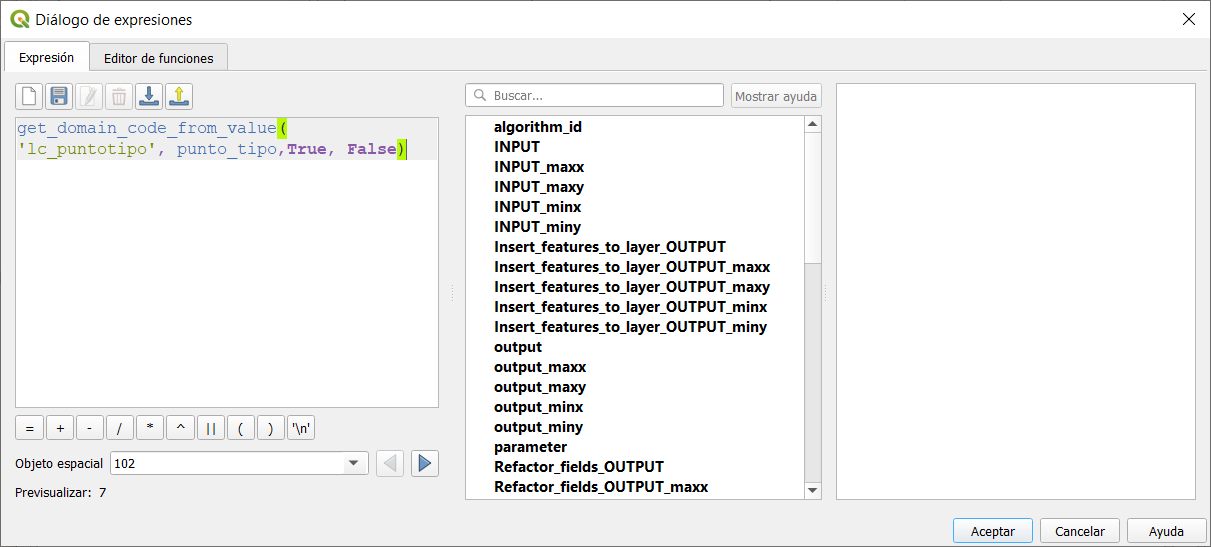
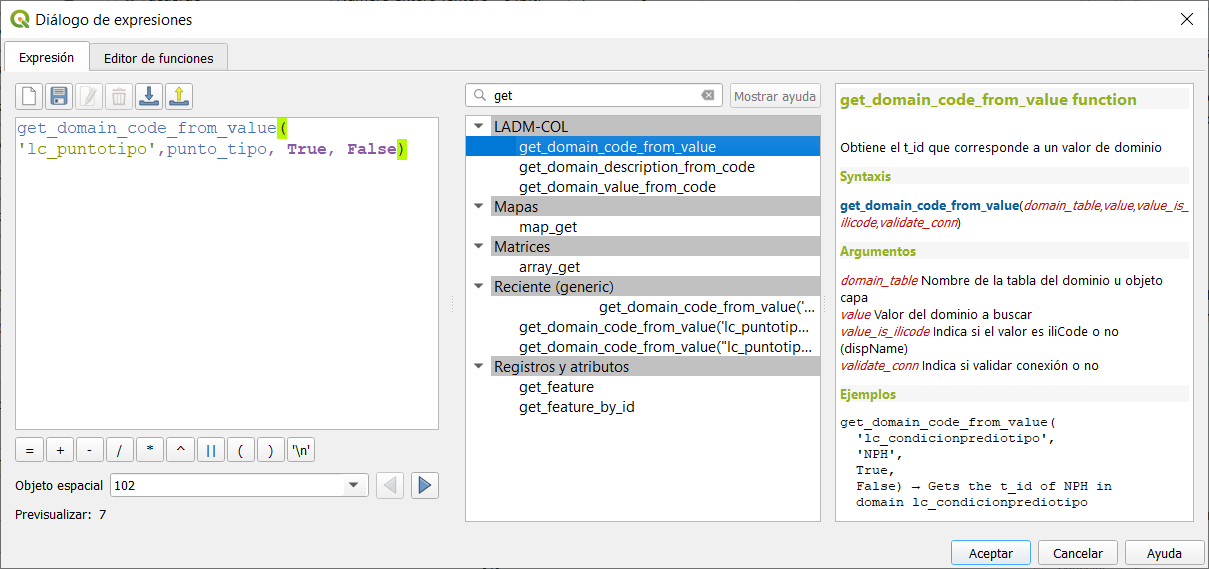
Actualización de imagenes y adicion paso 1-Cargue punto lindero

Changed region(s): [[0.0, 0.0, 0.9793, 0.9945], [0.0, 0.7459, 0.3672, 0.9324], [0.3366, 0.7148, 0.3672, 0.7459]]

diff --git a/source/tutorial/captura_y_estructuracion_de_datos.md b/source/tutorial/captura_y_estructuracion_de_datos.md
@@ -52,40 +52,46 @@ Se desplegará un diálogo con el listado de los valores del dominio seleccionad
 
 ### Puntos de lindero
 
-#### Paso 1: Creación de punto lindero
+#### Paso 1: Cargue de insumos Punto lindero
+
+Inicialmente, se arrastra la capa de insumo llamada **topo_puntos_lindero** al menú de capas de QGIS.
+
+<a class="" data-lightbox="Paso 1: Cargue de insumos Punto lindero" href="../_static/tutorial/captura_y_estructura_de_datos/cap4preinsumos9.gif" title="Paso 1: Cargue de insumos Punto lindero" data-title="Paso 1: Cargue de insumos Punto lindero"><img src="../_static/tutorial/captura_y_estructura_de_datos/cap4preinsumos9.gif" class="align-center" width="800px" alt="Paso 1: Cargue de insumos Punto lindero"/></a>
+
+#### Paso 2: Creación de punto lindero
 
 Entiéndase *'Puntos de lindero'* como aquellos puntos que definen los vértices de un lindero.
 
 Para crear puntos de lindero debes seguir la ruta **LADM-COL -> Captura y estructuración de datos -> Levantamiento Catastral -> Topografía y Representación -> Crear Punto**.
 
-<a class="" data-lightbox="Paso 1: Creación de punto lindero" href="../_static/tutorial/captura_y_estructura_de_datos/cap4preinsumos3.png" title="Paso 1: Creación de punto lindero" data-title="Paso 1: Creación de punto lindero"><img src="../_static/tutorial/captura_y_estructura_de_datos/cap4preinsumos3.png" class="align-center" width="800px" alt="Paso 1: Creación de punto lindero"/></a>
+<a class="" data-lightbox="Paso 2: Creación de punto lindero" href="../_static/tutorial/captura_y_estructura_de_datos/cap4preinsumos3.png" title="Paso 2: Creación de punto lindero" data-title="Paso 2: Creación de punto lindero"><img src="../_static/tutorial/captura_y_estructura_de_datos/cap4preinsumos3.png" class="align-center" width="800px" alt="Paso 2: Creación de punto lindero"/></a>
 
-#### Paso 2: Selección del tipo de punto
+#### Paso 3: Selección del tipo de punto
 
 La acción anterior desplegará un cuadro de diálogo con la opción para seleccionar la clase de punto que se desea importar. En este caso, selecciona **Punto Lindero** y luego haz clic en **Siguiente**.
 
-<a class="" data-lightbox="Paso 2: Selección del tipo de punto" href="../_static/tutorial/captura_y_estructura_de_datos/cap4preinsumos4.png" title="Paso 2: Selección del tipo de punto" data-title="Paso 2: Selección del tipo de punto"><img src="../_static/tutorial/captura_y_estructura_de_datos/cap4preinsumos4.png" class="align-center" width="600px" alt="Paso 2: Selección del tipo de punto"/></a>
+<a class="" data-lightbox="Paso 3: Selección del tipo de punto" href="../_static/tutorial/captura_y_estructura_de_datos/cap4preinsumos4.png" title="Paso 3: Selección del tipo de punto" data-title="Paso 3: Selección del tipo de punto"><img src="../_static/tutorial/captura_y_estructura_de_datos/cap4preinsumos4.png" class="align-center" width="600px" alt="Paso 3: Selección del tipo de punto"/></a>
 
-#### Paso 3: Selección de los datos punto lindero
+#### Paso 4: Selección de los datos punto lindero
 
 Ahora debes seleccionar el conjunto de datos a importar. La fuente de estos puede ser un archivo separado por comas (CSV) o una capa vectorial.
 
 Para este caso, elige el conjunto de datos que ya está cargado en la interfaz de QGIS, **topo_punto_lindero**, y procede a dar clic en el botón `Importar`.
 
-<a class="" data-lightbox="Paso 3: Selección de los datos punto lindero" href="../_static/tutorial/captura_y_estructura_de_datos/cap4preinsumos5.png" title="Paso 3: Selección de los datos punto lindero" data-title="Paso 3: Selección de los datos punto lindero"><img src="../_static/tutorial/captura_y_estructura_de_datos/cap4preinsumos5.png" class="align-center" width="600px" alt="Paso 3: Selección de los datos punto lindero"/></a>
+<a class="" data-lightbox="Paso 4: Selección de los datos punto lindero" href="../_static/tutorial/captura_y_estructura_de_datos/cap4preinsumos5.png" title="Paso 4: Selección de los datos punto lindero" data-title="Paso 4: Selección de los datos punto lindero"><img src="../_static/tutorial/captura_y_estructura_de_datos/cap4preinsumos5.png" class="align-center" width="600px" alt="Paso 4: Selección de los datos punto lindero"/></a>
 
-#### Paso 4: Diálogo del mapeo de campos para punto lindero
+#### Paso 5: Diálogo del mapeo de campos para punto lindero
 
 Tan pronto realices el paso anterior, se abre un cuadro de diálogo en el cual se encuentra el mapeo de la información levantada en campo comparada con la información que requiere el modelo.
 
- <a class="" data-lightbox="Paso 4: Diálogo del mapeo de campos para punto lindero" href="../_static/tutorial/captura_y_estructura_de_datos/cap4preinsumos6.png" title="Paso 4: Diálogo del mapeo de campos para punto lindero" data-title="Paso 4: Diálogo del mapeo de campos para punto lindero"><img src="../_static/tutorial/captura_y_estructura_de_datos/cap4preinsumos6.png" class="align-center" width="600px" alt="Paso 4: Diálogo del mapeo de campos para punto lindero"/></a>
+ <a class="" data-lightbox="Paso 5: Diálogo del mapeo de campos para punto lindero" href="../_static/tutorial/captura_y_estructura_de_datos/cap4preinsumos6.png" title="Paso 5: Diálogo del mapeo de campos para punto lindero" data-title="Paso 5: Diálogo del mapeo de campos para punto lindero"><img src="../_static/tutorial/captura_y_estructura_de_datos/cap4preinsumos6.png" class="align-center" width="600px" alt="Paso 5: Diálogo del mapeo de campos para punto lindero"/></a>
 
 <div class="warning">
 <p class="admonition-title">ADVERTENCIA</p>
 <p>Resulta de gran importancia esta sección ya que es la base de la importación de información restante.</p>
 </div>
 
-#### Paso 5: Definición del mapeo de campos para punto lindero
+#### Paso 6: Definición del mapeo de campos para punto lindero
 
 La capa **lc\_punto\_lindero** cuenta con cinco atributos obligatorios, estos son:
 
@@ -108,7 +114,7 @@ get_domain_code_from_value('Nombre de la tabla del dominio' (Texto),
                            Indica si validar conexión o no (Booleano),)
 ```
 
-<a class="" data-lightbox="Paso 5a: Definición del mapeo de campos para punto lindero" href="../_static/tutorial/captura_y_estructura_de_datos/cap4preinsumos12.png" title="Paso 5a: Definición del mapeo de campos para punto lindero" data-title="Paso 5a: Definición del mapeo de campos para punto lindero"><img src="../_static/tutorial/captura_y_estructura_de_datos/cap4preinsumos12.png" class="align-center" width="800px" alt="Paso 5a: Definición del mapeo de campos para punto lindero"/></a>
+<a class="" data-lightbox="Paso 6a: Definición del mapeo de campos para punto lindero" href="../_static/tutorial/captura_y_estructura_de_datos/cap4preinsumos12.png" title="Paso 6a: Definición del mapeo de campos para punto lindero" data-title="Paso 6a: Definición del mapeo de campos para punto lindero"><img src="../_static/tutorial/captura_y_estructura_de_datos/cap4preinsumos12.png" class="align-center" width="800px" alt="Paso 6a: Definición del mapeo de campos para punto lindero"/></a>
 
 Para el caso del mapeo de atributos obligatorios para Punto Lindero, debes asignar las siguientes expresiones:
 
@@ -128,7 +134,7 @@ Para el caso del mapeo de atributos obligatorios para Punto Lindero, debes asign
 
 Una vez que se diligencian cada uno de los atributos al interior del formulario, se obtiene el siguiente resultado:
 
-<a class="" data-lightbox="Paso 5b: Definición del mapeo de campos para punto lindero" href="../_static/tutorial/captura_y_estructura_de_datos/cap4preinsumos13.png" title="Paso 5b: Definición del mapeo de campos para punto lindero" data-title="Paso 5b: Definición del mapeo de campos para punto lindero"><img src="../_static/tutorial/captura_y_estructura_de_datos/cap4preinsumos13.png" class="align-center" width="800px" alt="Paso 5b: Definición del mapeo de campos para punto lindero"/></a>
+<a class="" data-lightbox="Paso 6b: Definición del mapeo de campos para punto lindero" href="../_static/tutorial/captura_y_estructura_de_datos/cap4preinsumos13.png" title="Paso 6b: Definición del mapeo de campos para punto lindero" data-title="Paso 6b: Definición del mapeo de campos para punto lindero"><img src="../_static/tutorial/captura_y_estructura_de_datos/cap4preinsumos13.png" class="align-center" width="800px" alt="Paso 6b: Definición del mapeo de campos para punto lindero"/></a>
 
 #### Paso 6: Resultado de la ejecución punto lindero
 
@@ -138,7 +144,7 @@ Una vez terminado el mapeo de campos, debes dar clic en **Ejecutar** y al termin
 
 ### Puntos de levantamiento
 
-#### Paso 1: Cargue de insumos
+#### Paso 1: Cargue de insumos punto levantamiento
 
 Inicialmente, se arrastra la capa de insumo llamada **topo_puntos_levantamiento** al menú de capas de QGIS.
 
